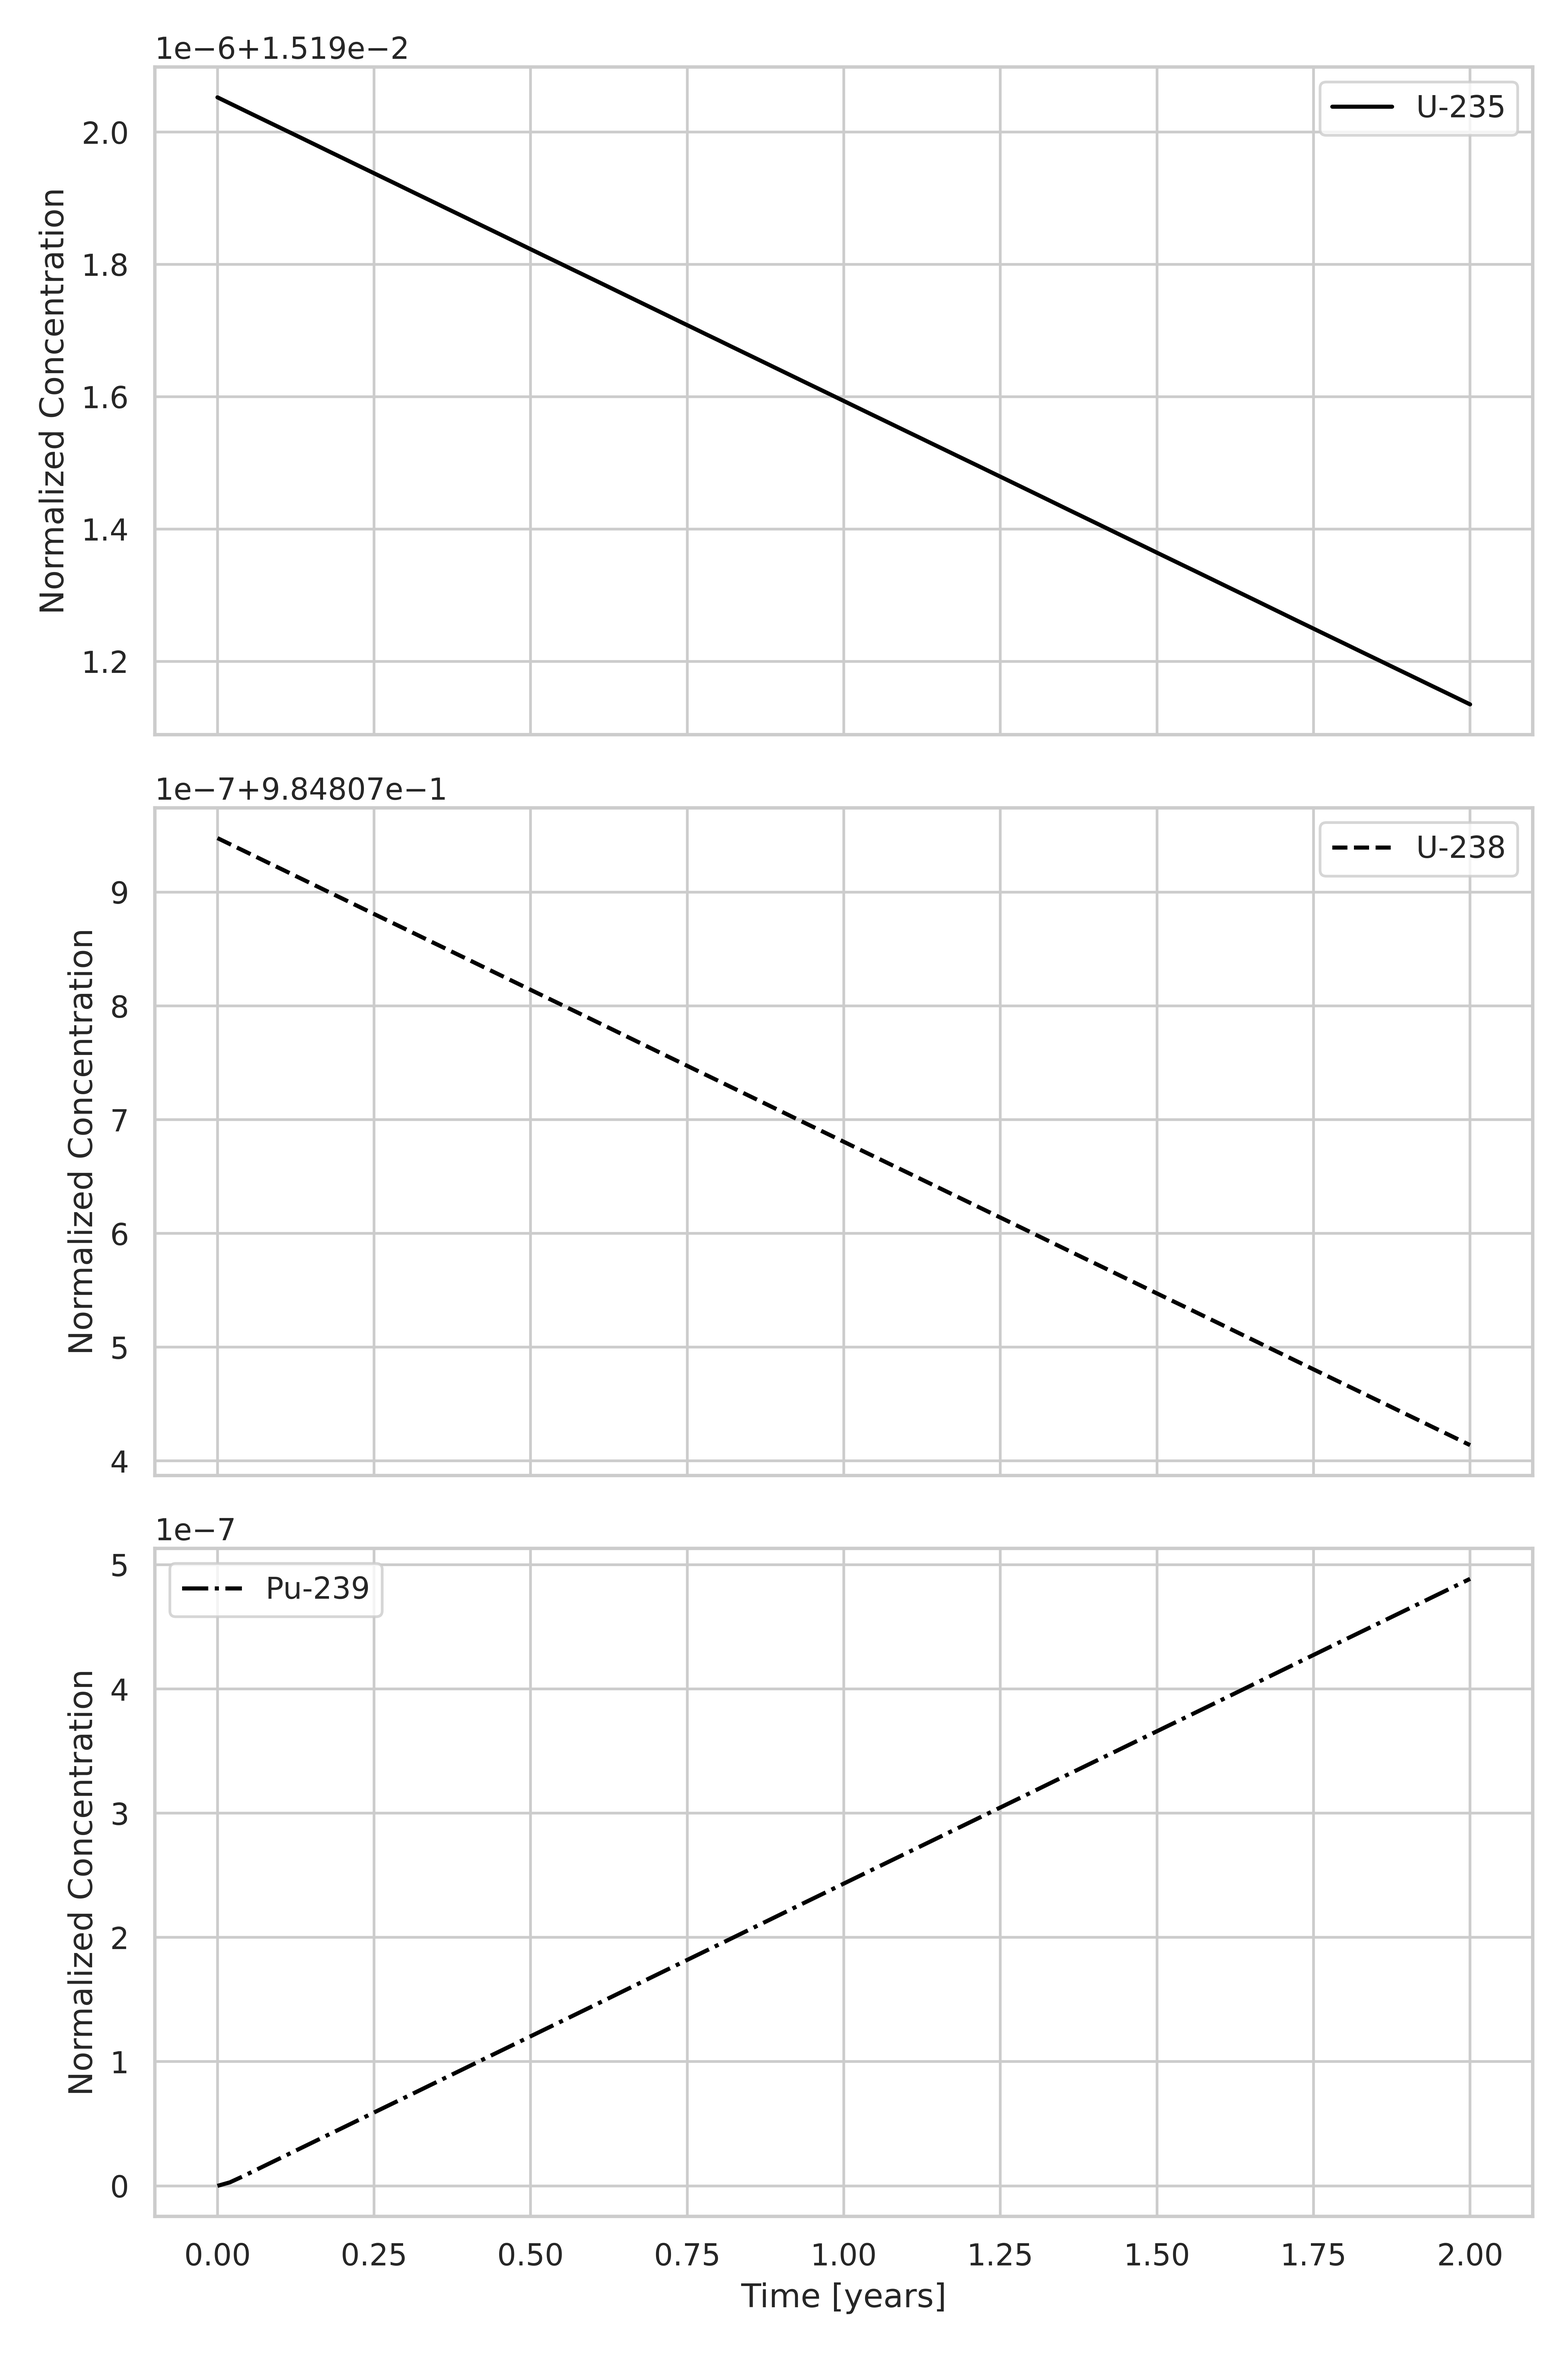
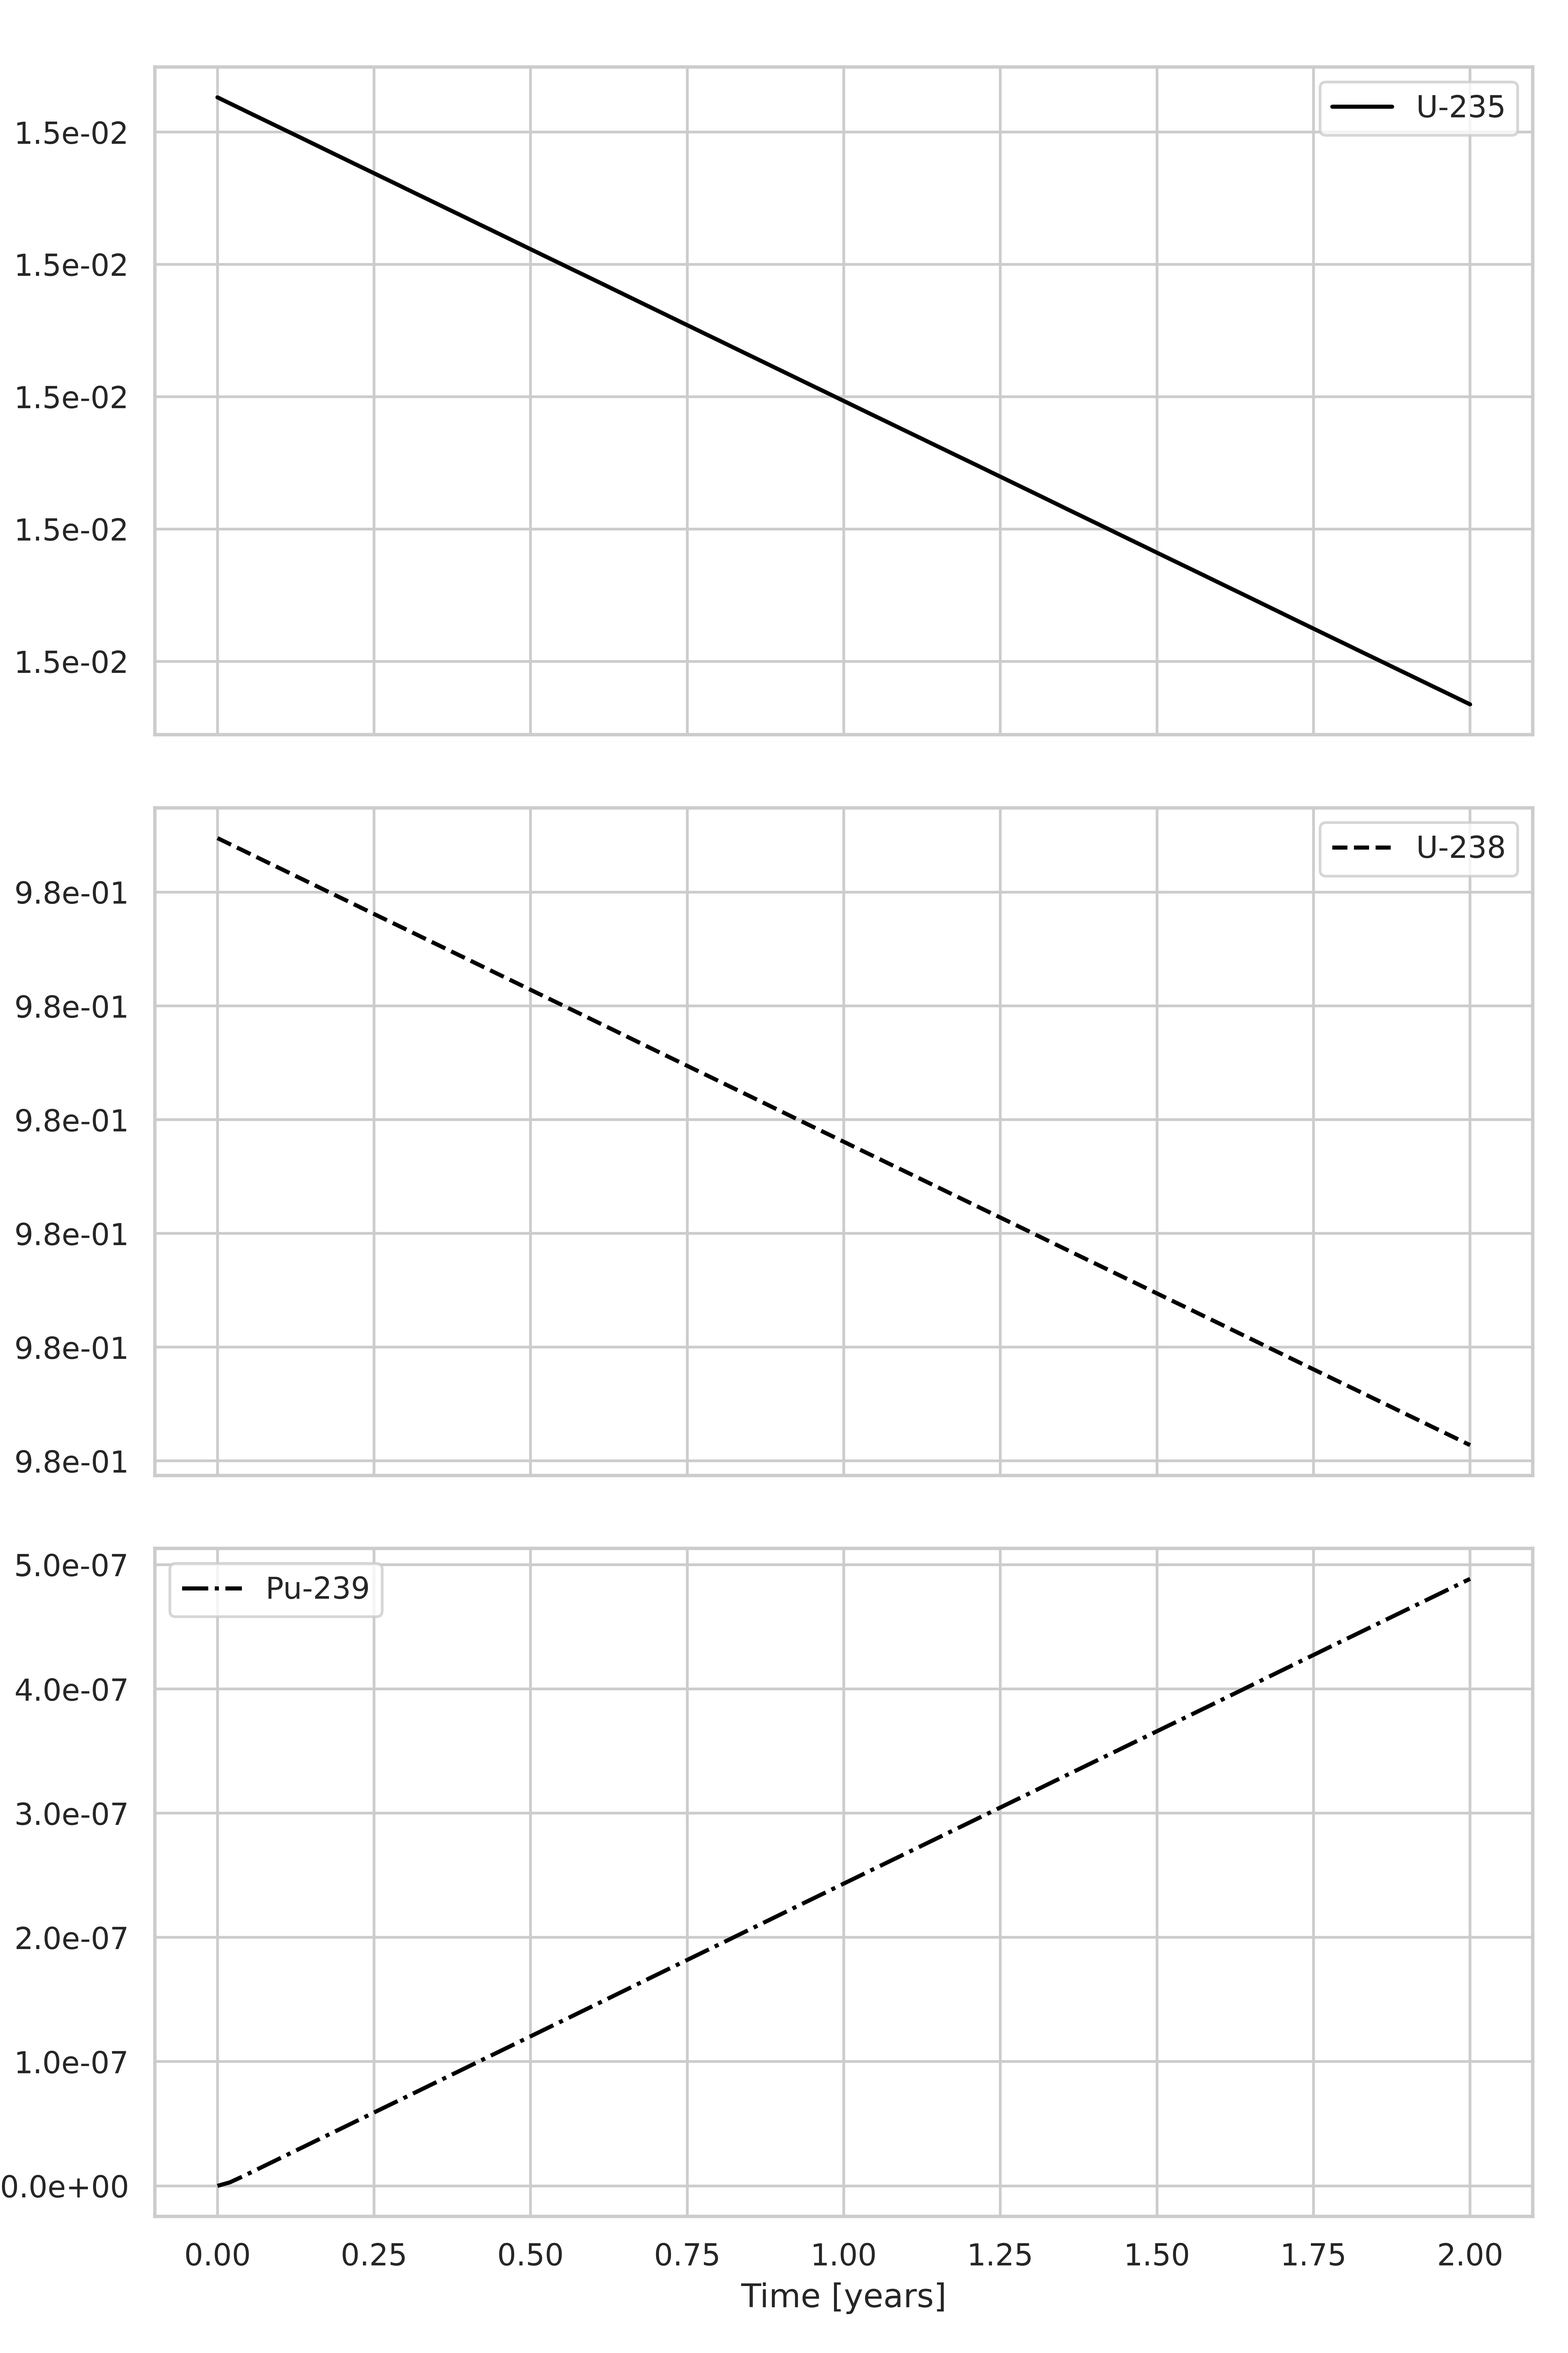
Correciones sobre la simulacion

diff --git a/Simulation/Ploter2.py b/Simulation/Ploter2.py
@@ -3,11 +3,18 @@ import matplotlib.pyplot as plt
 import openmc.deplete.results as dr
 import numpy as np
 import seaborn as sns
+from matplotlib.ticker import ScalarFormatter
+from matplotlib.ticker import FuncFormatter
 
 """
 Ploting settings
 """
 sns.set_theme(context='notebook', style='whitegrid', palette='deep', font='sans-serif', font_scale=1, color_codes=True, rc=None)
+# Function to format the y-axis labels
+def scientific_formatter(x, pos):
+    return f'{x:.1e}'
+
+
 # Load the depletion results
 results = dr.Results("depletion_results.h5")
 
@@ -46,12 +53,12 @@ for timei in time_steps_days:
 
     # Calculate the initial total number of nuclei for normalization
     if burnup_index == 0:
-        initial_total_atoms = conc_U235[0] + conc_U238[0] + conc_Pu239[0]
+        initial_C = conc_U235[0] + conc_U238[0]  + conc_Pu239[0]
 
     # Normalize the concentrations with respect to the initial total number of nuclei
-    concentrations_U235_normalized.append(conc_U235[burnup_index] / initial_total_atoms)
-    concentrations_U238_normalized.append(conc_U238[burnup_index] / initial_total_atoms)
-    concentrations_Pu239_normalized.append(conc_Pu239[burnup_index] / initial_total_atoms)
+    concentrations_U235_normalized.append(conc_U235[burnup_index] / initial_C)
+    concentrations_U238_normalized.append(conc_U238[burnup_index] / initial_C)
+    concentrations_Pu239_normalized.append(conc_Pu239[burnup_index] / initial_C)
 
 # Convert lists to numpy arrays for plotting
 concentrations_U235_normalized = np.array(concentrations_U235_normalized)
@@ -79,6 +86,12 @@ axs[2].legend()
 
 # Adjust the spacing between subplots
 plt.tight_layout()
+
+# Set the formatter for the y-axis to use scientific notation
+formatter = FuncFormatter(scientific_formatter)
+
+for ax in axs:
+    ax.yaxis.set_major_formatter(formatter)
 
 # Save the plot
 plt.savefig('Plots/concentration_U02_try1.png', dpi=600)

diff --git a/Simulation/Simulator.py b/Simulation/Simulator.py
@@ -381,8 +381,11 @@ settings = openmc.Settings()
 settings.source = src
 settings.batches = 100
 settings.inactive = 10
-settings.particles = 1000
-settings.threads = 6
+#settings.particles = 1000
+settings.threads = 10
+# Set the maximum neutron energy level (in eV)
+settings.energy_mode = 'multi-group'
+settings.energy_max = 20.0e6  # 20 MeV
 settings.export_to_xml()
 
 # Create the OpenMC model
